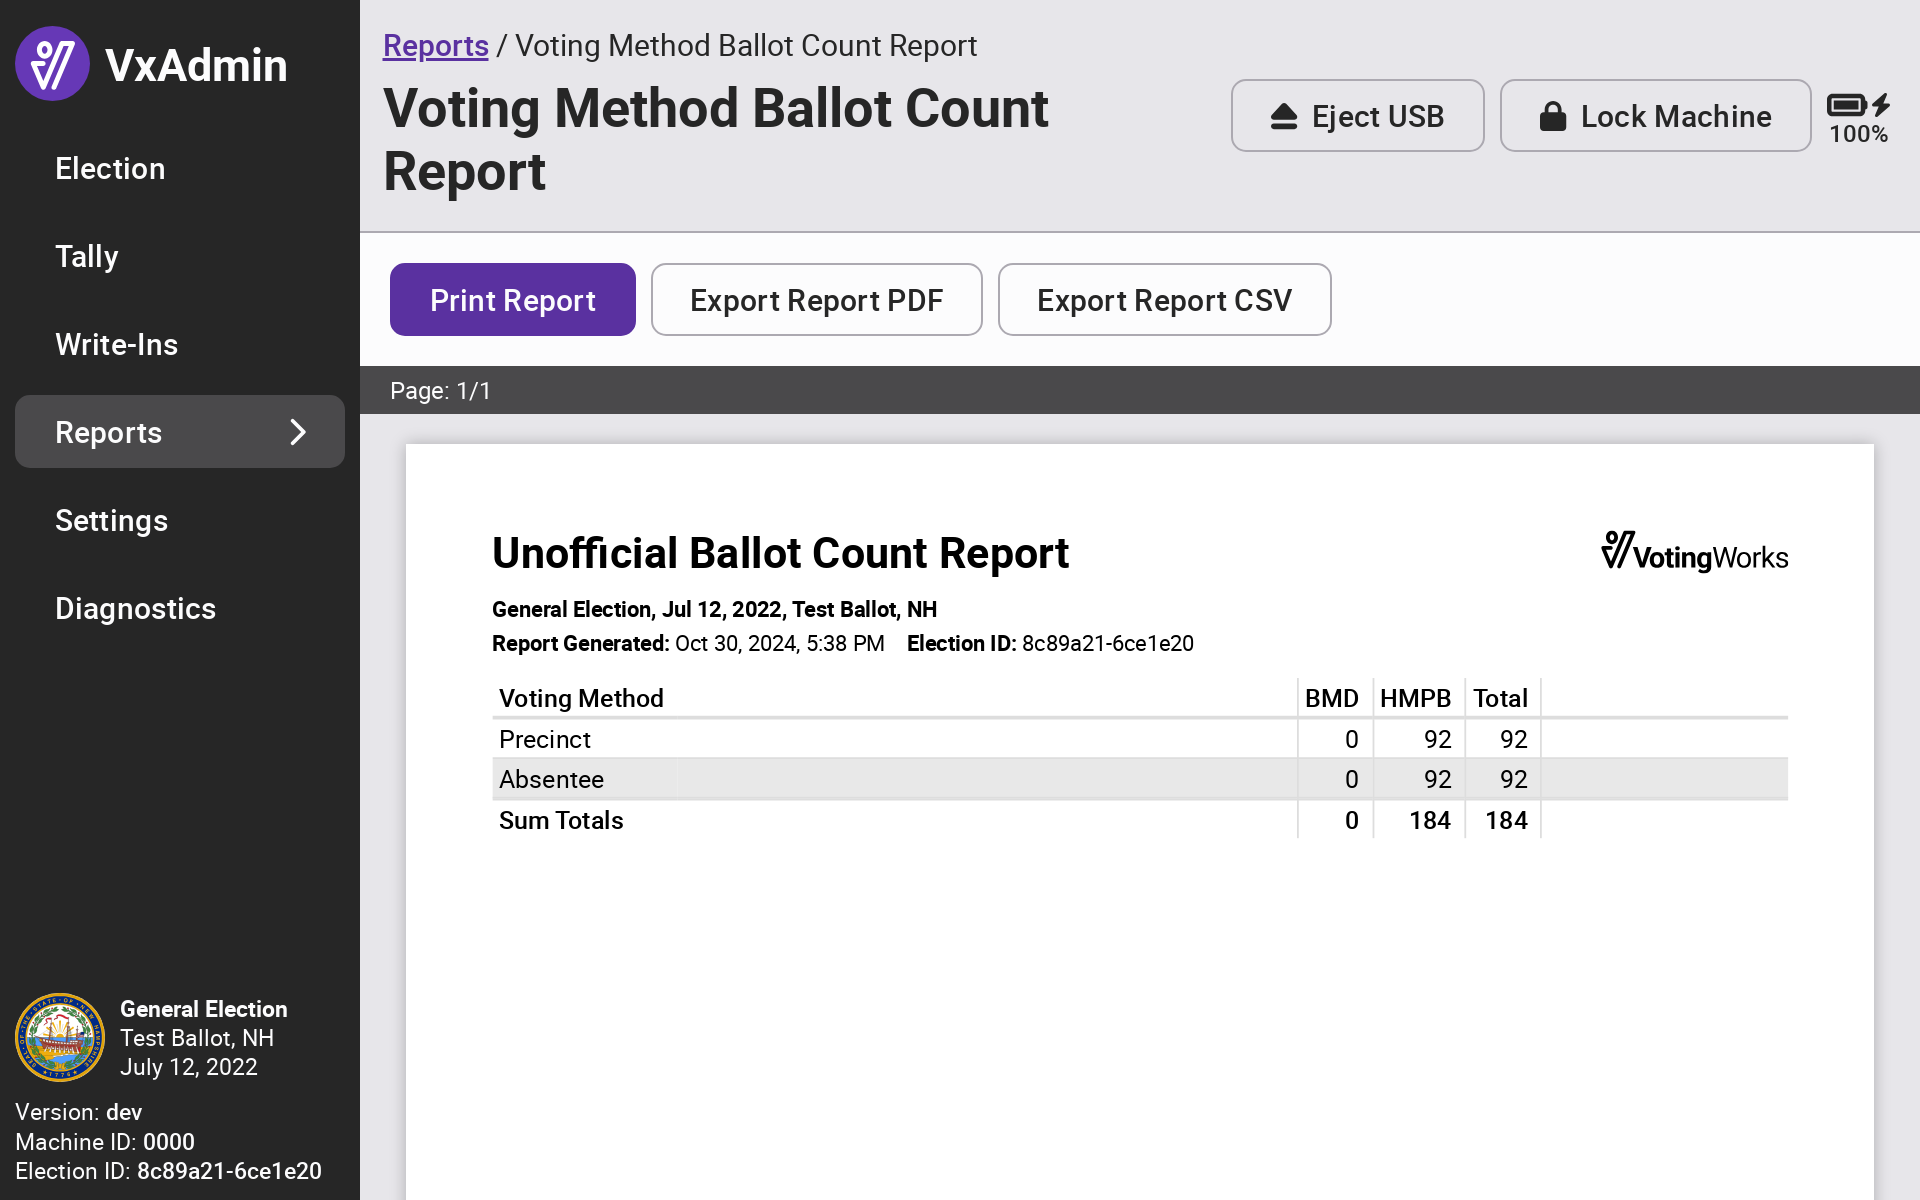
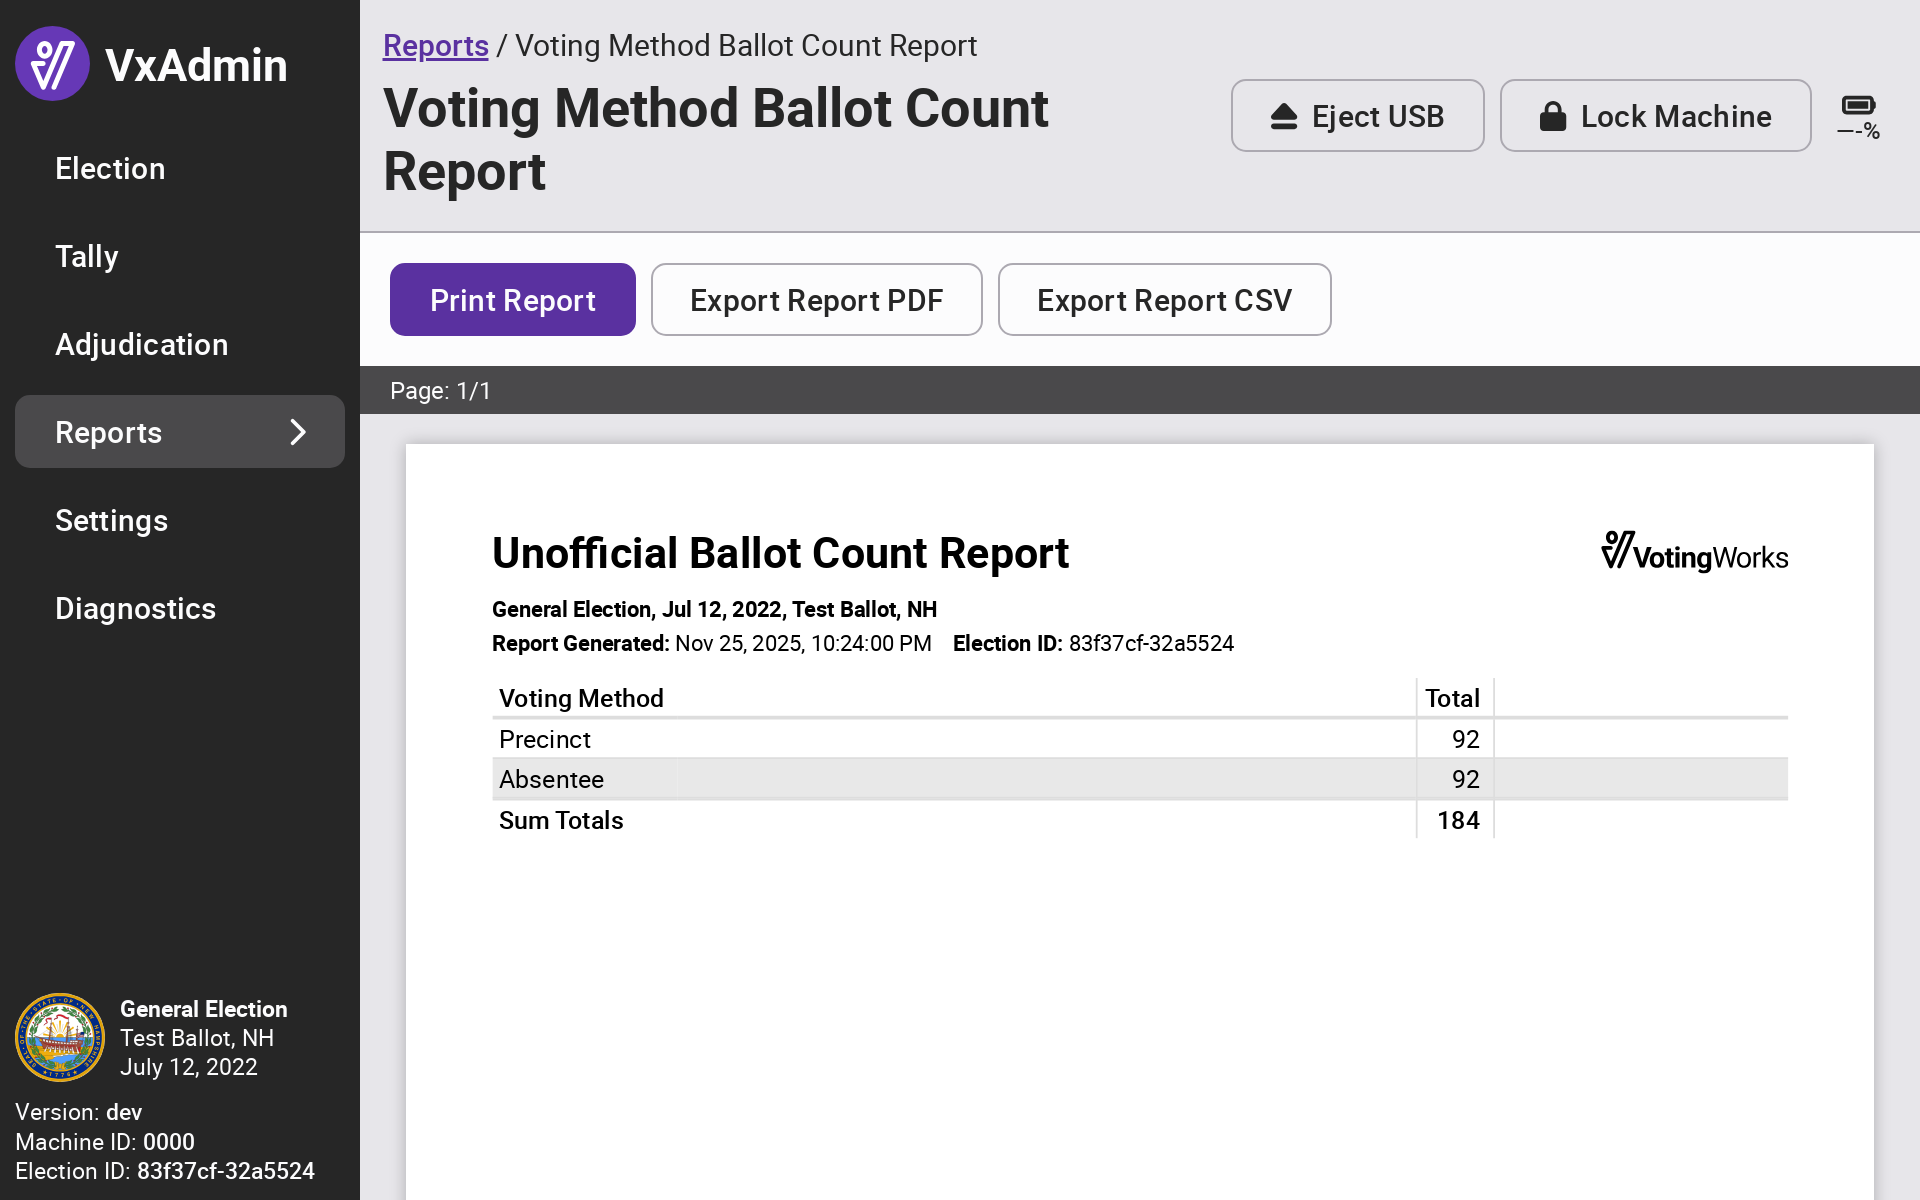
GITBOOK-157: ballot count on reports changes

diff --git a/election-night-guides/reports.md b/election-night-guides/reports.md
@@ -2,9 +2,9 @@
 
 ## Full Election Tally Report
 
-To review results, select _`Reports`_ from the side menu and select _`Full Election Tally Report`._  A preview will appear. Select _`Print Report`_ to print the report, _`Export Report as PDF`_ to save the election tally report to a USB drive as a .pdf file, or _`Export Report CSV`_ to save the election tally report to a USB drive as a .csv file. Files will save to a reports/ folder on the USB drive.
+To review results, select _`Reports`_ from the side menu and select _`Full Election Tally Report`._ A preview will appear. Select _`Print Report`_ to print the report, _`Export Report as PDF`_ to save the election tally report to a USB drive as a .pdf file, or _`Export Report CSV`_ to save the election tally report to a USB drive as a .csv file. Files will save to a reports/ folder on the USB drive.
 
-<div><figure><img src="../.gitbook/assets/vxadmin-reports-screen-unofficial (1).png" alt=""><figcaption></figcaption></figure> <figure><img src="../.gitbook/assets/vxadmin-full-election-report-unofficial.png" alt=""><figcaption></figcaption></figure></div>
+<div><figure><img src="../.gitbook/assets/vxadmin-reports-screen-unofficial (1).png" alt=""><figcaption></figcaption></figure> <figure><img src="../.gitbook/assets/full-election-report-unofficial.png" alt=""><figcaption></figcaption></figure></div>
 
 {% hint style="warning" %}
 The tally report will include any total write-in count of one or more in a contest. If a specific write-in candidate has enough votes to be considered in the outcome of a contest, the report will list that candidate and their vote total. The tally report will not list every write-in adjudicated - the write-in adjudication report will have the full list.
@@ -23,7 +23,7 @@ To create a filtered and/or grouped report:
 
 <div align="center"><figure><img src="../.gitbook/assets/vxadmin-tally-report-builder-initial.png" alt=""><figcaption></figcaption></figure> <figure><img src="../.gitbook/assets/vxadmin-tally-report-builder-filter-selection.png" alt=""><figcaption></figcaption></figure></div>
 
-3. Specify any specific ballot style(s), batch(es), precinct(s), or scanner(s)&#x20;
+3. Specify any specific ballot style(s), batch(es), precinct(s), or scanner(s)
 4. Select _`Add Filter`_ to add an additional filter as needed
 5. Select how you'd like the report organized
 6. Select _`Generate Report`_
@@ -35,9 +35,9 @@ To create a filtered and/or grouped report:
 
 Ballot count reports show the number of ballots cast. The ballot count report builder enables you to generate custom reports by precinct, district, ballot style, and more. An example of the Voting Method Ballot Count Report is on the right.
 
-<div><figure><img src="../.gitbook/assets/vxadmin-reports-screen-unofficial-ballot-count-reports-highlight.png" alt=""><figcaption></figcaption></figure> <figure><img src="../.gitbook/assets/vxadmin-ballot-count-report-voting-method.png" alt=""><figcaption></figcaption></figure></div>
+<div><figure><img src="../.gitbook/assets/vxadmin-reports-screen-unofficial-ballot-count-reports-highlight.png" alt=""><figcaption></figcaption></figure> <figure><img src="../.gitbook/assets/ballot-count-report-voting-method.png" alt=""><figcaption></figcaption></figure></div>
 
-Ballot counts are recorded by type.  Manual are counts recorded in the Manual Tally process, BMD are ballots from the VotingWorks ballot marking device (VxMarkScan), and HMPB are ballots hand marked by a voter and processed via VxScan or VxCentralScan.
+Ballot counts are recorded by type. Manual are counts recorded in the Manual Tally process, BMD are ballots from the VotingWorks ballot marking device (VxMarkScan), and HMPB are ballots hand marked by a voter and processed via VxScan or VxCentralScan.
 
 ### Write-In Adjudication Report
 
@@ -45,9 +45,8 @@ The write-in adjudication report presents how all write-ins were adjudicated and
 
 To print the report, select _`Unofficial Write-In Adjudication Report`_. An example of the write-in adjudication report is on the right.
 
-<div><figure><img src="../.gitbook/assets/vxadmin-reports-screen-unofficial-wia-report.png" alt=""><figcaption></figcaption></figure> <figure><img src="../.gitbook/assets/vxadmin-write-in-adjudication-report.png" alt=""><figcaption></figcaption></figure></div>
+<div><figure><img src="../.gitbook/assets/vxadmin-reports-screen-unofficial-wia-report.png" alt=""><figcaption></figcaption></figure> <figure><img src="../.gitbook/assets/write-in-adjudication-report.png" alt=""><figcaption></figcaption></figure></div>
 
 ### Example Reports
 
-<div><figure><img src="../.gitbook/assets/full-election-report (1).png" alt=""><figcaption></figcaption></figure> <figure><img src="../.gitbook/assets/ballot-count-report-voting-method-pdf.png" alt=""><figcaption></figcaption></figure> <figure><img src="../.gitbook/assets/write-in-adjudication-report-pdf.png" alt=""><figcaption></figcaption></figure></div>
-
+<div><figure><img src="../.gitbook/assets/admin-full-election-report 2.png" alt=""><figcaption></figcaption></figure> <figure><img src="../.gitbook/assets/admin-ballot-count-report-voting-method 2.png" alt=""><figcaption></figcaption></figure> <figure><img src="../.gitbook/assets/admin-write-in-adjudication-report 2.png" alt=""><figcaption></figcaption></figure></div>

diff --git a/system-maintenance/vxadmin-and-vxcentralscan-maintenance-manual.md b/system-maintenance/vxadmin-and-vxcentralscan-maintenance-manual.md
@@ -4,8 +4,8 @@
 
 VxAdmin & VxCentralScan are simply COTS laptops that are sealed and installed with VotingWorks software. For additional reference information, see the following links:
 
-* **Hardware Overview -** [VxAdmin & VxCentralScan Hardware](https://app.gitbook.com/s/Z4bC0rbmogHEUUuMLAUa/readme/vxadmin-and-vxcentralscan-hardware "mention")
-* **Software Functionality -** [VxAdmin Function](https://app.gitbook.com/s/Z4bC0rbmogHEUUuMLAUa/readme/vxadmin-function "mention") & [VxCentralScan Function](https://app.gitbook.com/s/Z4bC0rbmogHEUUuMLAUa/readme/vxcentralscan-function "mention")
+* **Hardware Overview -** [VxAdmin & VxCentralScan Hardware](https://app.gitbook.com/s/Z4bC0rbmogHEUUuMLAUa/system-overview/vxadmin-and-vxcentralscan-hardware "mention")
+* **Software Functionality -** [VxAdmin Function](https://app.gitbook.com/s/Z4bC0rbmogHEUUuMLAUa/system-overview/vxadmin-function "mention") & [VxCentralScan Function](https://app.gitbook.com/s/Z4bC0rbmogHEUUuMLAUa/system-overview/vxcentralscan-function "mention")
 * [**Manufacturer Datasheet**](https://github.com/votingworks/docs-vxsuite-v4/blob/main/hardware-assets/cots-documentation/central-system/hp-elitebook-840-14in-g11/hp-elitebook-840-14in-g11-datasheet.pdf)
 * [**Manufacturer User Guide**](https://github.com/votingworks/docs-vxsuite-v4/blob/main/hardware-assets/cots-documentation/central-system/hp-elitebook-840-14in-g11/hp-elitebook-840-14in-g11-user-guide.pdf)
 

diff --git a/vxadmin-system-setup/configure-vxadmin.md b/vxadmin-system-setup/configure-vxadmin.md
@@ -1,6 +1,6 @@
 # Configure VxAdmin
 
-For each election, you will configure VxAdmin by loading an election package provided by VotingWorks or downloaded from VxDesign. The [full election package specifications](https://app.gitbook.com/s/Z4bC0rbmogHEUUuMLAUa/readme/election-package) can be found in the technical data package.
+For each election, you will configure VxAdmin by loading an election package provided by VotingWorks or downloaded from VxDesign. The [full election package specifications](https://app.gitbook.com/s/Z4bC0rbmogHEUUuMLAUa/system-overview/election-package) can be found in the technical data package.
 
 {% hint style="info" %}
 The following steps must be completed by a system administrator.

diff --git a/system-maintenance/vxmarkscan-maintenance-manual.md b/system-maintenance/vxmarkscan-maintenance-manual.md
@@ -2,8 +2,8 @@
 
 For reference information on VxMarkScan, see the following links:
 
-* **Hardware Overview -** [VxMarkScan Hardware](https://app.gitbook.com/s/Z4bC0rbmogHEUUuMLAUa/readme/vxmarkscan-hardware "mention")
-* **Software Functionality -** [VxMarkScan Function](https://app.gitbook.com/s/Z4bC0rbmogHEUUuMLAUa/readme/vxmarkscan-function "mention")
+* **Hardware Overview -** [VxMarkScan Hardware](https://app.gitbook.com/s/Z4bC0rbmogHEUUuMLAUa/system-overview/vxmarkscan-hardware "mention")
+* **Software Functionality -** [VxMarkScan Function](https://app.gitbook.com/s/Z4bC0rbmogHEUUuMLAUa/system-overview/vxmarkscan-function "mention")
 
 ## Hardware Maintenance
 

diff --git a/system-maintenance/vxscan-maintenance-manual.md b/system-maintenance/vxscan-maintenance-manual.md
@@ -2,8 +2,8 @@
 
 For reference information on VxScan, see the following links:
 
-* **Hardware Overview -** [VxScan Hardware](https://app.gitbook.com/s/Z4bC0rbmogHEUUuMLAUa/readme/vxscan-hardware "mention")
-* **Software Functionality -** [VxScan Function](https://app.gitbook.com/s/Z4bC0rbmogHEUUuMLAUa/readme/vxscan-function "mention")
+* **Hardware Overview -** [VxScan Hardware](https://app.gitbook.com/s/Z4bC0rbmogHEUUuMLAUa/system-overview/vxscan-hardware "mention")
+* **Software Functionality -** [VxScan Function](https://app.gitbook.com/s/Z4bC0rbmogHEUUuMLAUa/system-overview/vxscan-function "mention")
 
 ## Hardware Maintenance
 

diff --git a/election-day-guides/opening-polls.md b/election-day-guides/opening-polls.md
@@ -33,7 +33,7 @@ The polls are now open. The number of ballots scanned should be zero. Verify the
 
 Below is an example of the polls opened report. All totals should be zero.
 
-<figure><img src="../.gitbook/assets/image.png" alt="" width="375"><figcaption></figcaption></figure>
+<figure><img src="../.gitbook/assets/por-west-lincoln.png" alt="" width="375"><figcaption></figcaption></figure>
 
 {% hint style="danger" %}
 The poll worker door should remain sealed and secure at all times unless a poll worker requires access. Any unauthorized access should be reported to an election administrator immediately.

diff --git a/election-day-guides/closing-polls.md b/election-day-guides/closing-polls.md
@@ -20,5 +20,5 @@
 
 The polls are now closed. Below is an example of the polls closed report.
 
-<figure><img src="../.gitbook/assets/print-job-2024-11-22T184140.740Z.png" alt="" width="375"><figcaption></figcaption></figure>
+<figure><img src="../.gitbook/assets/pcr-west-lincoln.png" alt="" width="375"><figcaption></figcaption></figure>
 
